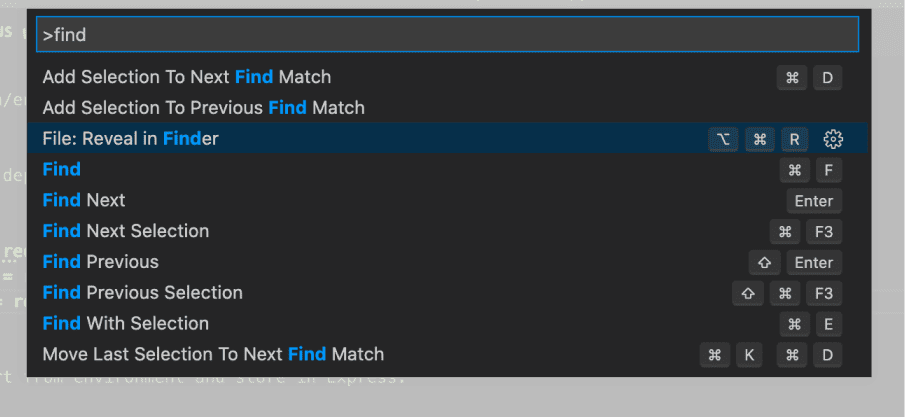
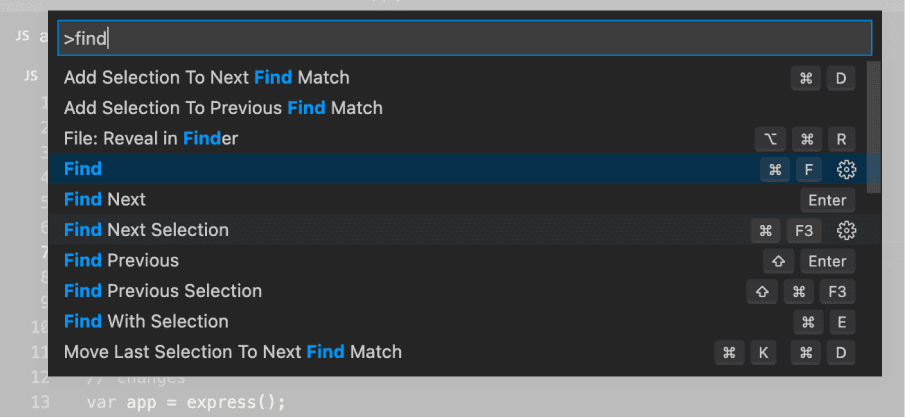
Fixes #115327 with HC images for GS setup/beginners.

Changed region(s): [[0.0, 0.0, 0.9901, 0.9952], [0.0928, 0.9019, 0.3094, 0.9952], [0.7735, 0.7464, 0.9282, 0.8708]]

diff --git a/src/vs/workbench/contrib/welcome/gettingStarted/common/gettingStartedContent.ts b/src/vs/workbench/contrib/welcome/gettingStarted/common/gettingStartedContent.ts
@@ -243,7 +243,7 @@ export const content: GettingStartedContent = [
 						type: 'image', altText: 'The "Turn on Sync" entry in the settings gear menu.', path: {
 							dark: 'dark/settingsSync.png',
 							light: 'light/settingsSync.png',
-							hc: 'light/settingsSync.png',
+							hc: 'hc/settingsSync.png',
 						},
 					}
 				},
@@ -326,7 +326,7 @@ export const content: GettingStartedContent = [
 						type: 'image', altText: 'Command Palette overlay for searching and executing commands.', path: {
 							dark: 'dark/commandPalette.png',
 							light: 'light/commandPalette.png',
-							hc: 'light/commandPalette.png',
+							hc: 'hc/commandPalette.png',
 						}
 					},
 				},
@@ -344,7 +344,7 @@ export const content: GettingStartedContent = [
 						type: 'image', altText: 'Integrated terminal running a few npm commands', path: {
 							dark: 'dark/terminal.png',
 							light: 'light/terminal.png',
-							hc: 'light/terminal.png',
+							hc: 'hc/terminal.png',
 						}
 					},
 				},
@@ -361,7 +361,7 @@ export const content: GettingStartedContent = [
 						type: 'image', altText: 'VS Code extension marketplace with featured language extensions', path: {
 							dark: 'dark/extensions.png',
 							light: 'light/extensions.png',
-							hc: 'light/extensions.png',
+							hc: 'hc/extensions.png',
 						}
 					},
 				},
